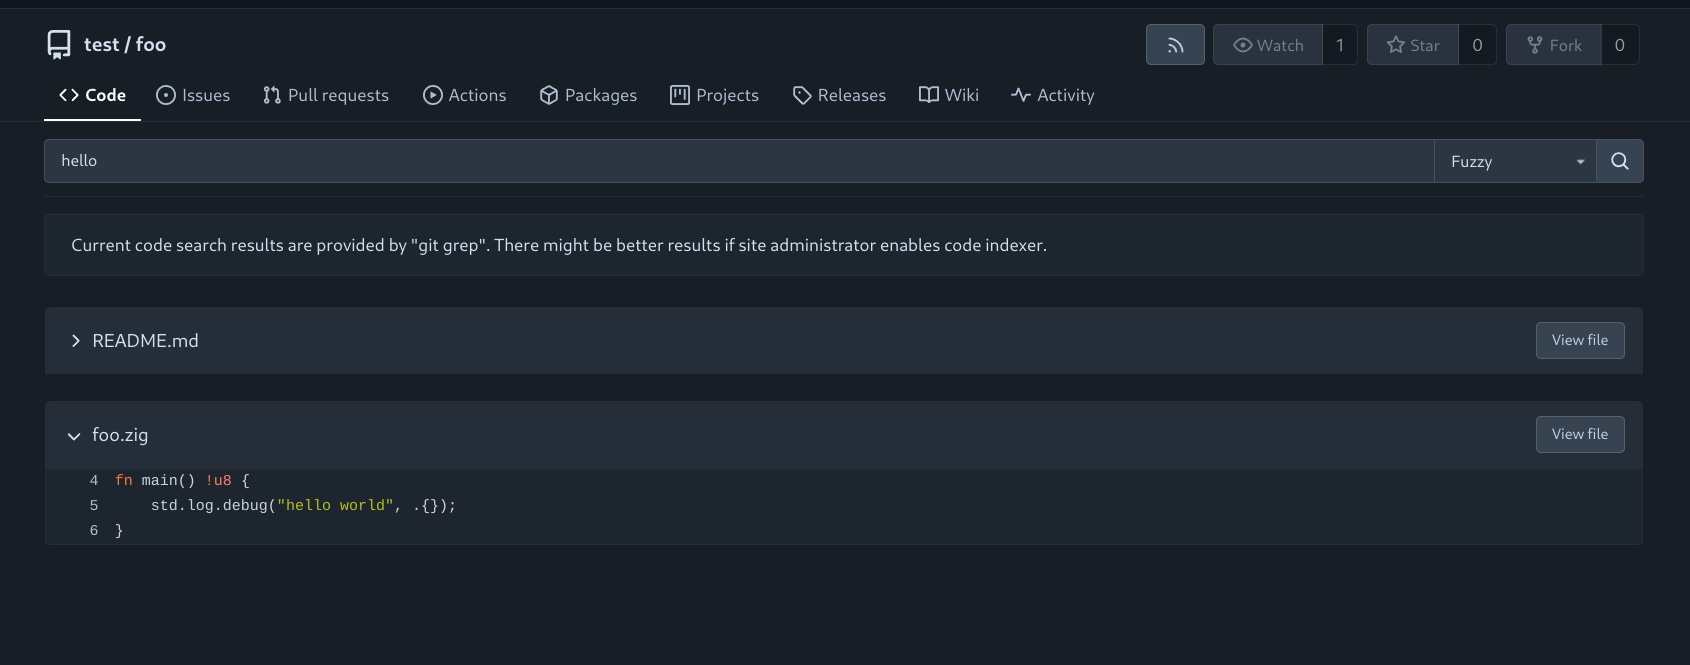
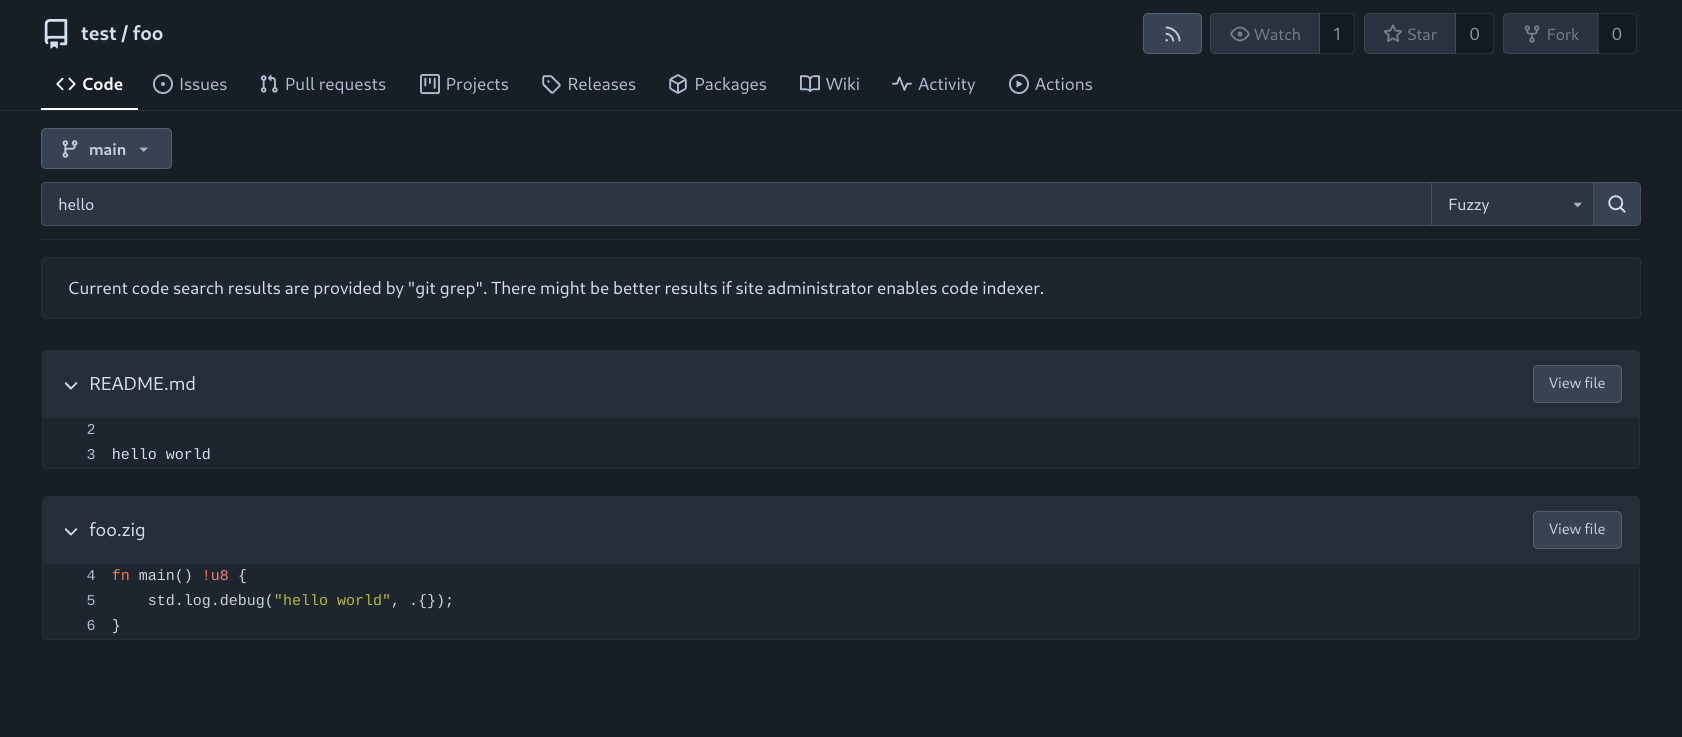
user(code search): mention branch/tag dropdown

diff --git a/docs/user/code-search.md b/docs/user/code-search.md
@@ -13,7 +13,9 @@ If `REPO_INDEXER_ENABLED` is set to `false`, the code search function will be li
 
 Currently, only fixed strings are supported and any case differences are ignored. The search results will include the matched line, along with a single line before and after the match.
 
-Since, the searches are performed in the fly they may be performed on any valid branch or tag.
+Since, the searches are performed on the fly they may be performed on any valid branch or tag.
+
+The active branch/tag will be displayed as the default value on the dropdown present just above the search bar, which may also be used to easily switch between branches and tags.
 
 # Indexer
 
